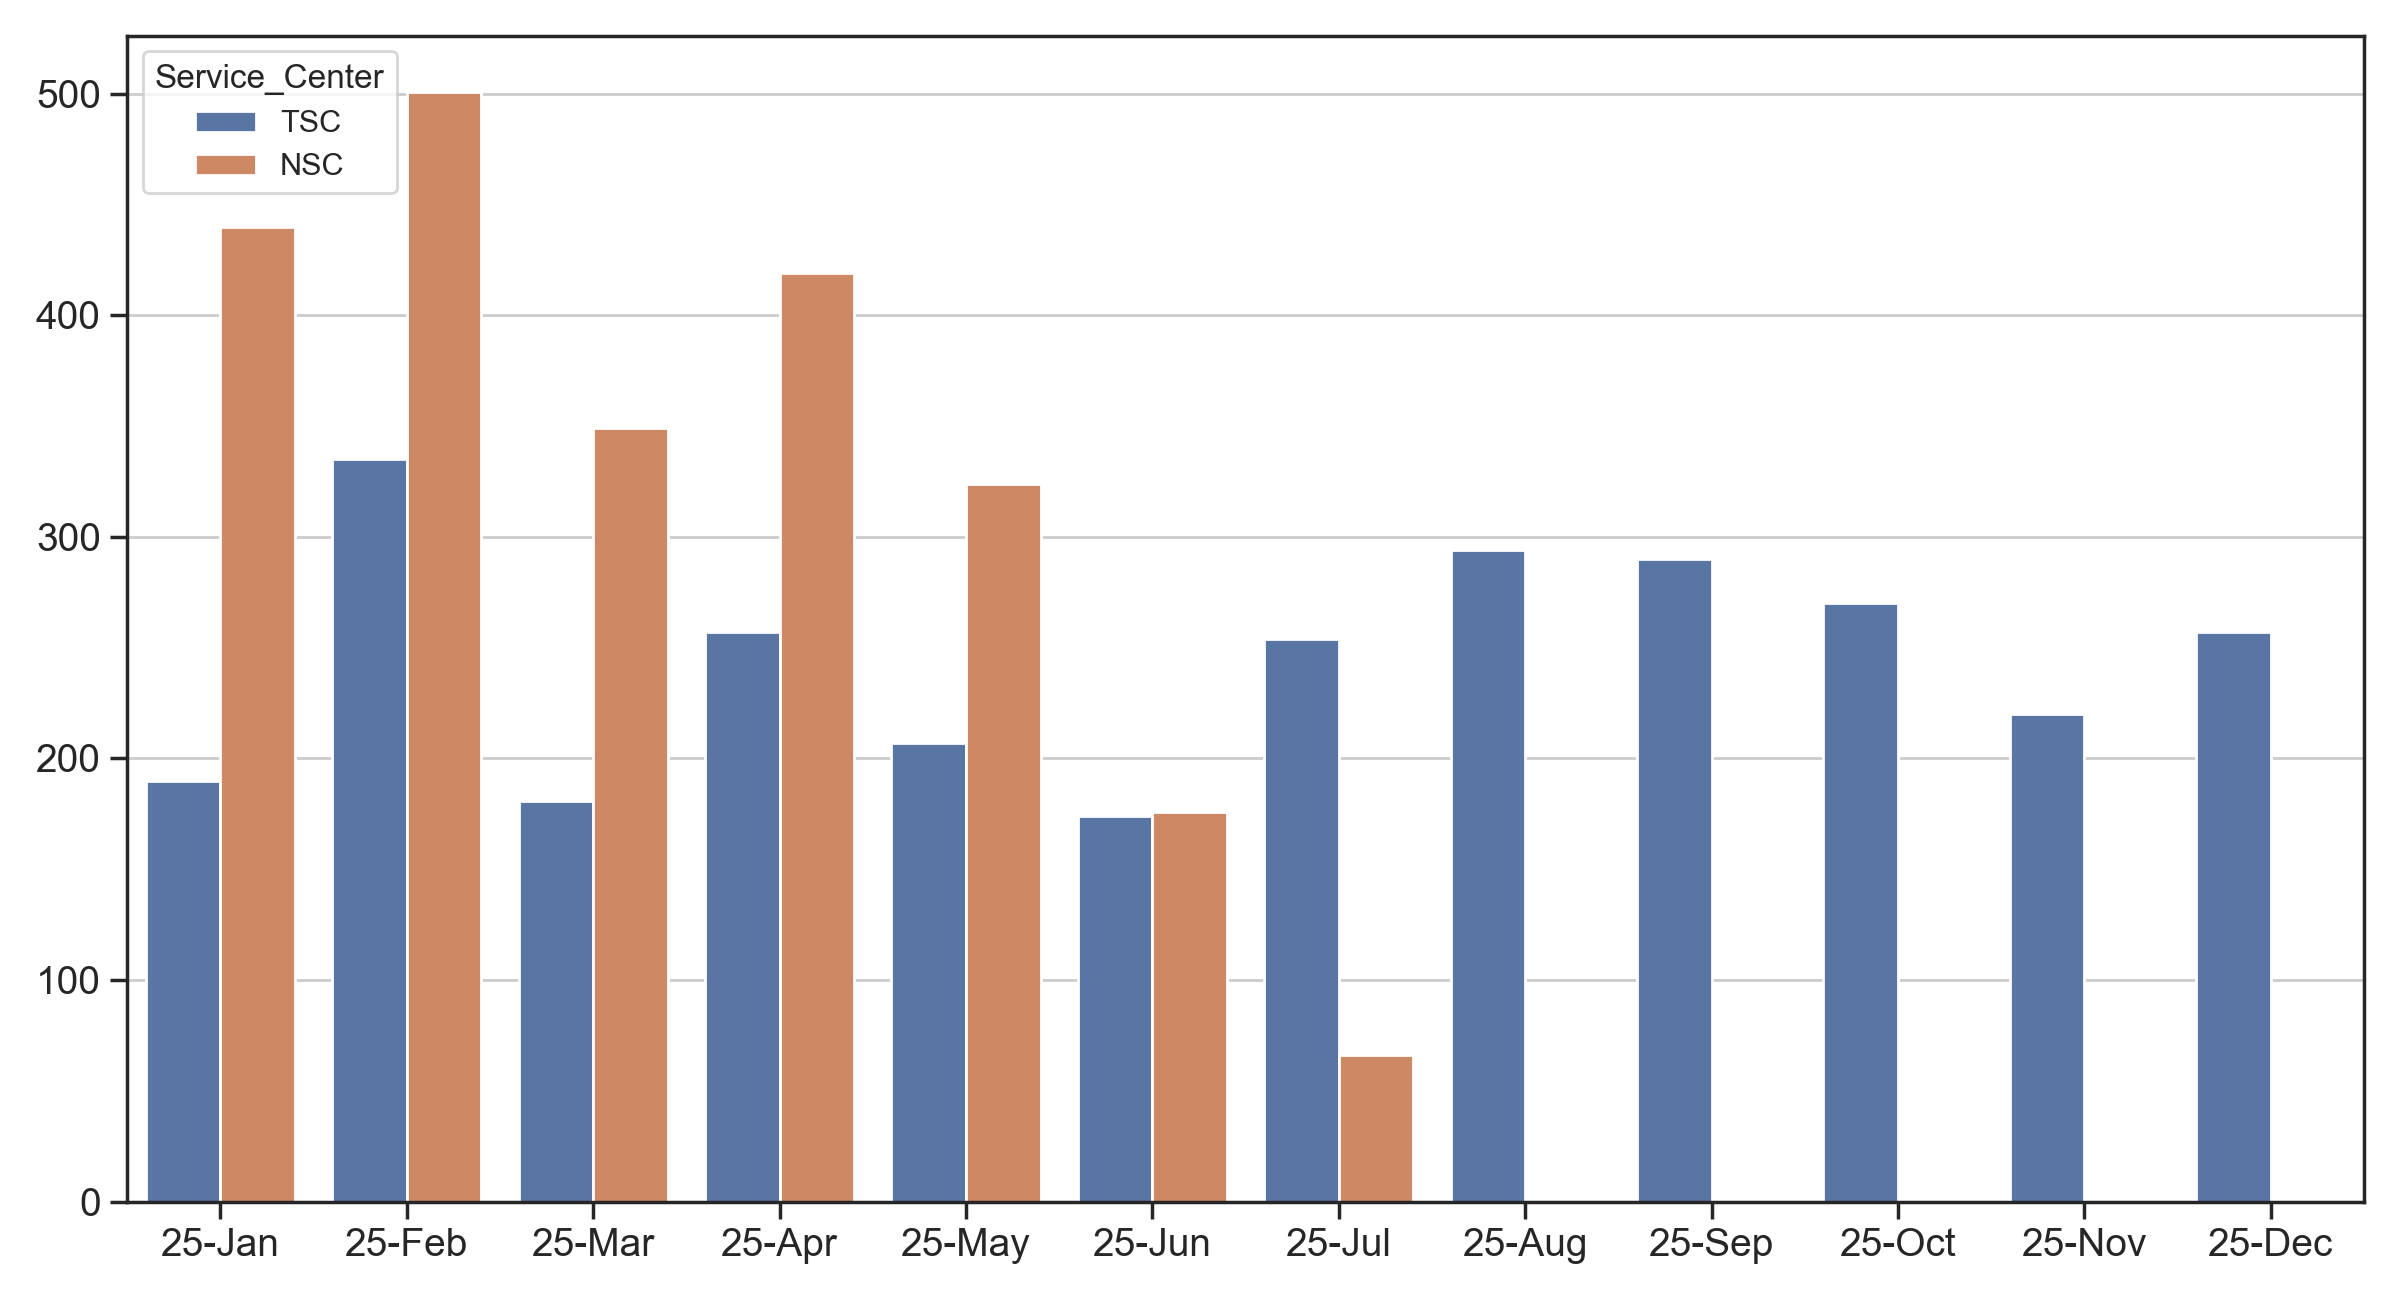
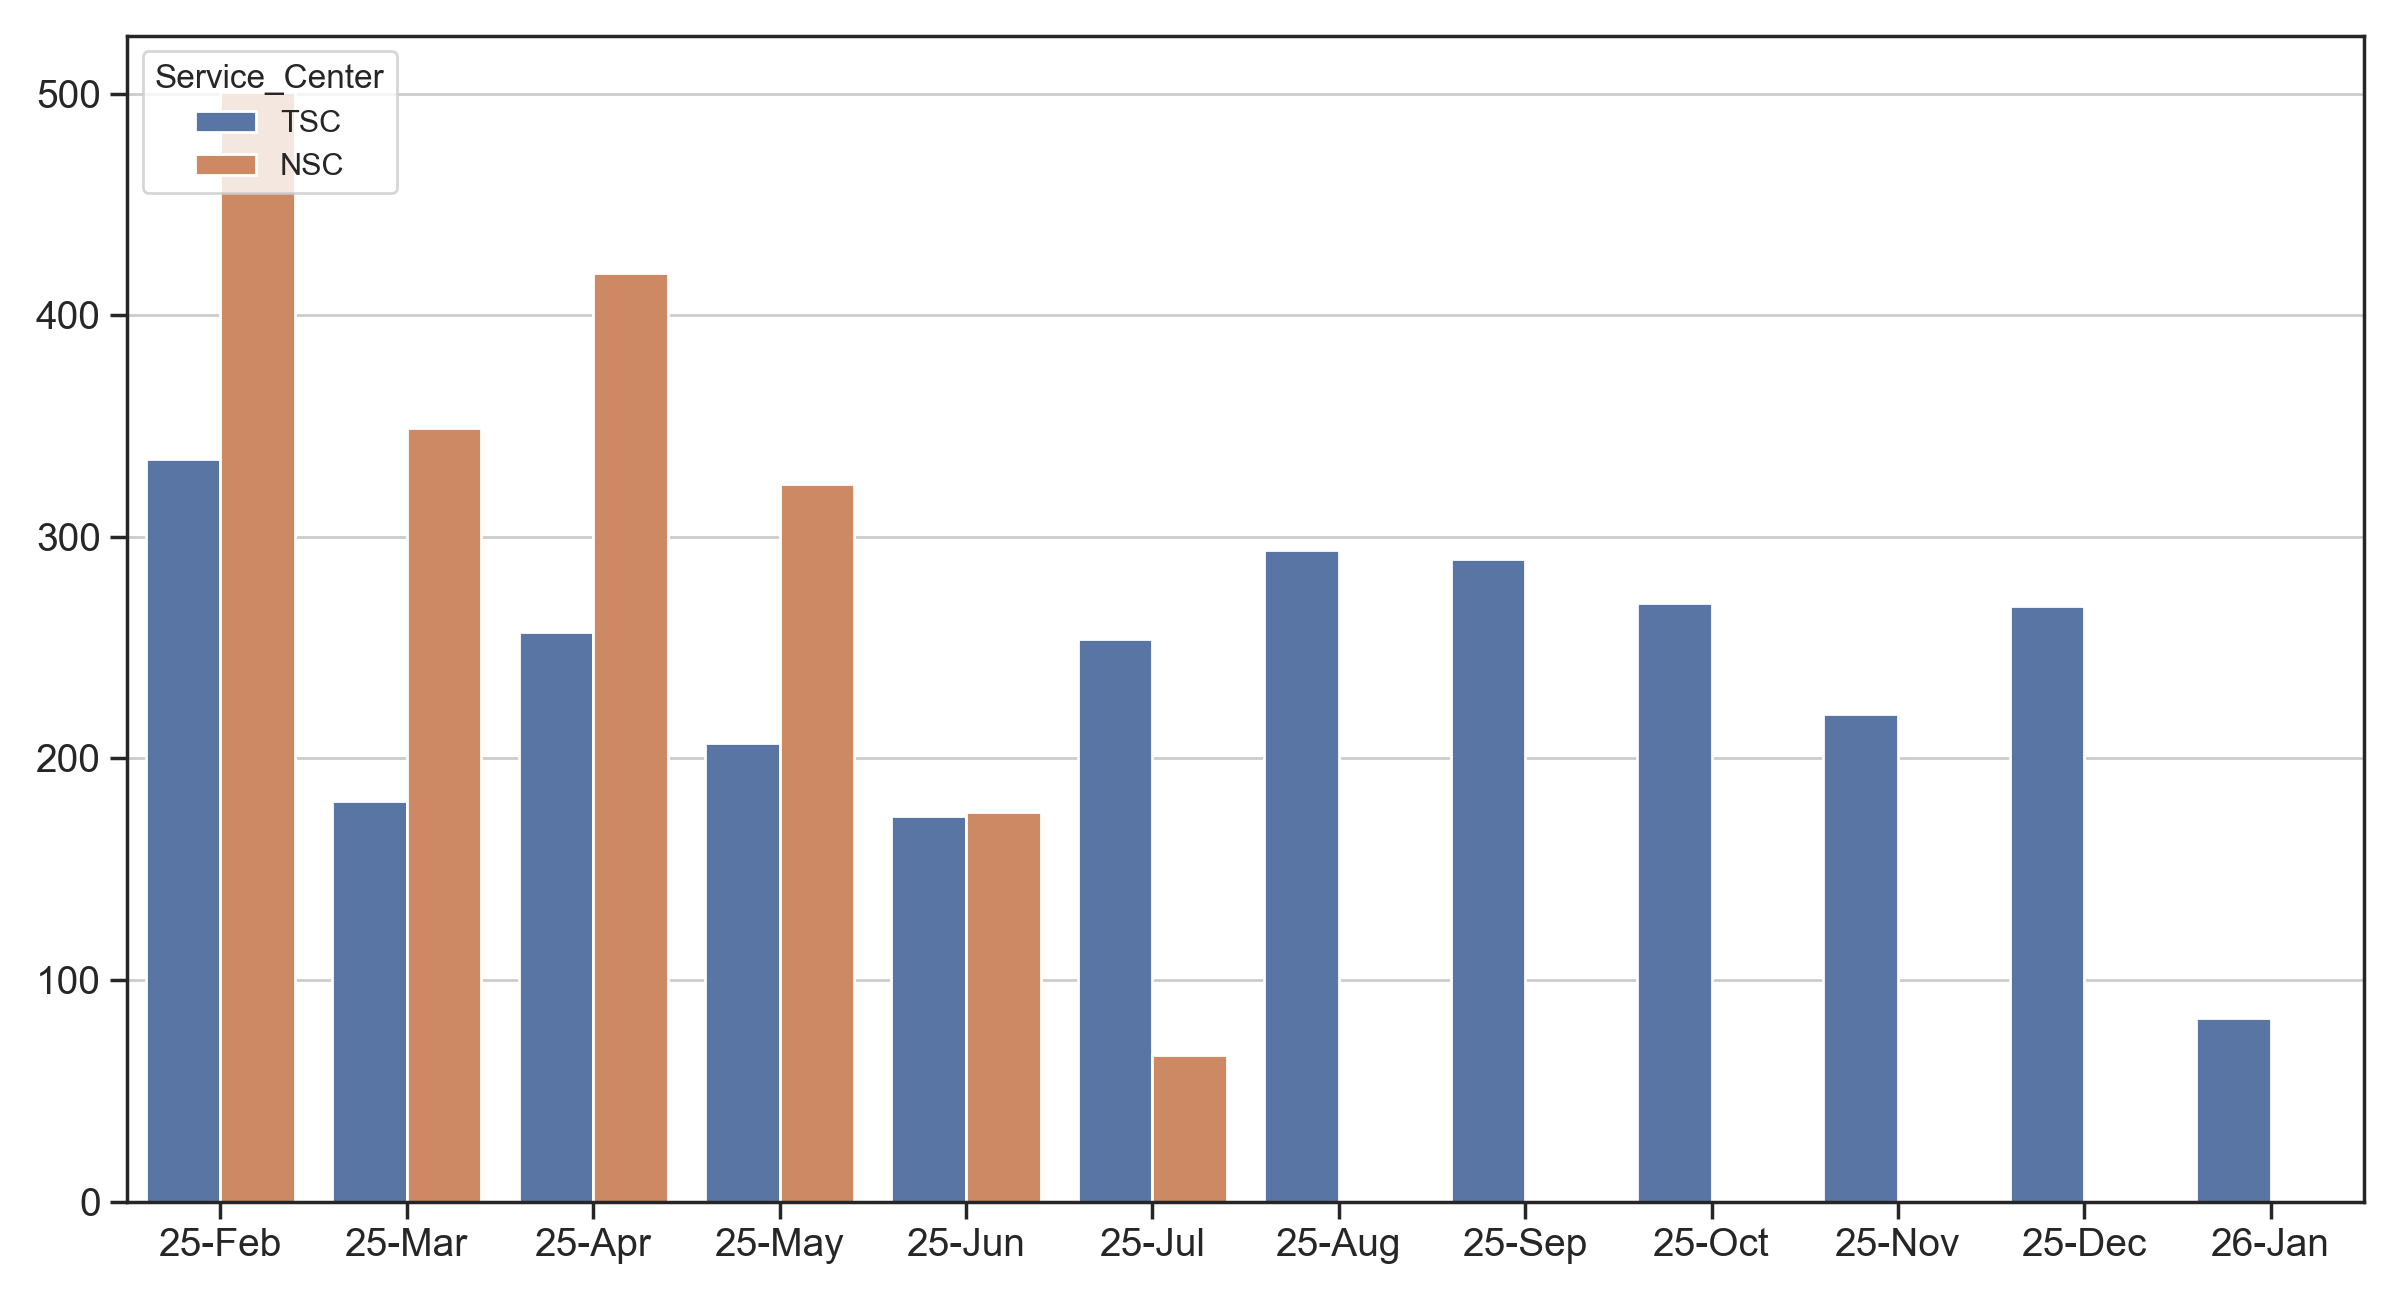
Jan-24 update

diff --git a/README.md b/README.md
@@ -1,4 +1,4 @@
-## National Interest Waiver Wait Time, updated Jan-08-2026 
+## National Interest Waiver Wait Time, updated Jan-24-2026 
 * sec203(b)(2), Indiv w/Adv Deg or Exceptional Ability in National Interest are counted as NIW cases from now on. 
  
 USCIS Employment-based-2 NIW I-140 wait time before approval (data source: [Victoria Chen](https://www.wegreened.com/eb1_niw_approvals)). 
